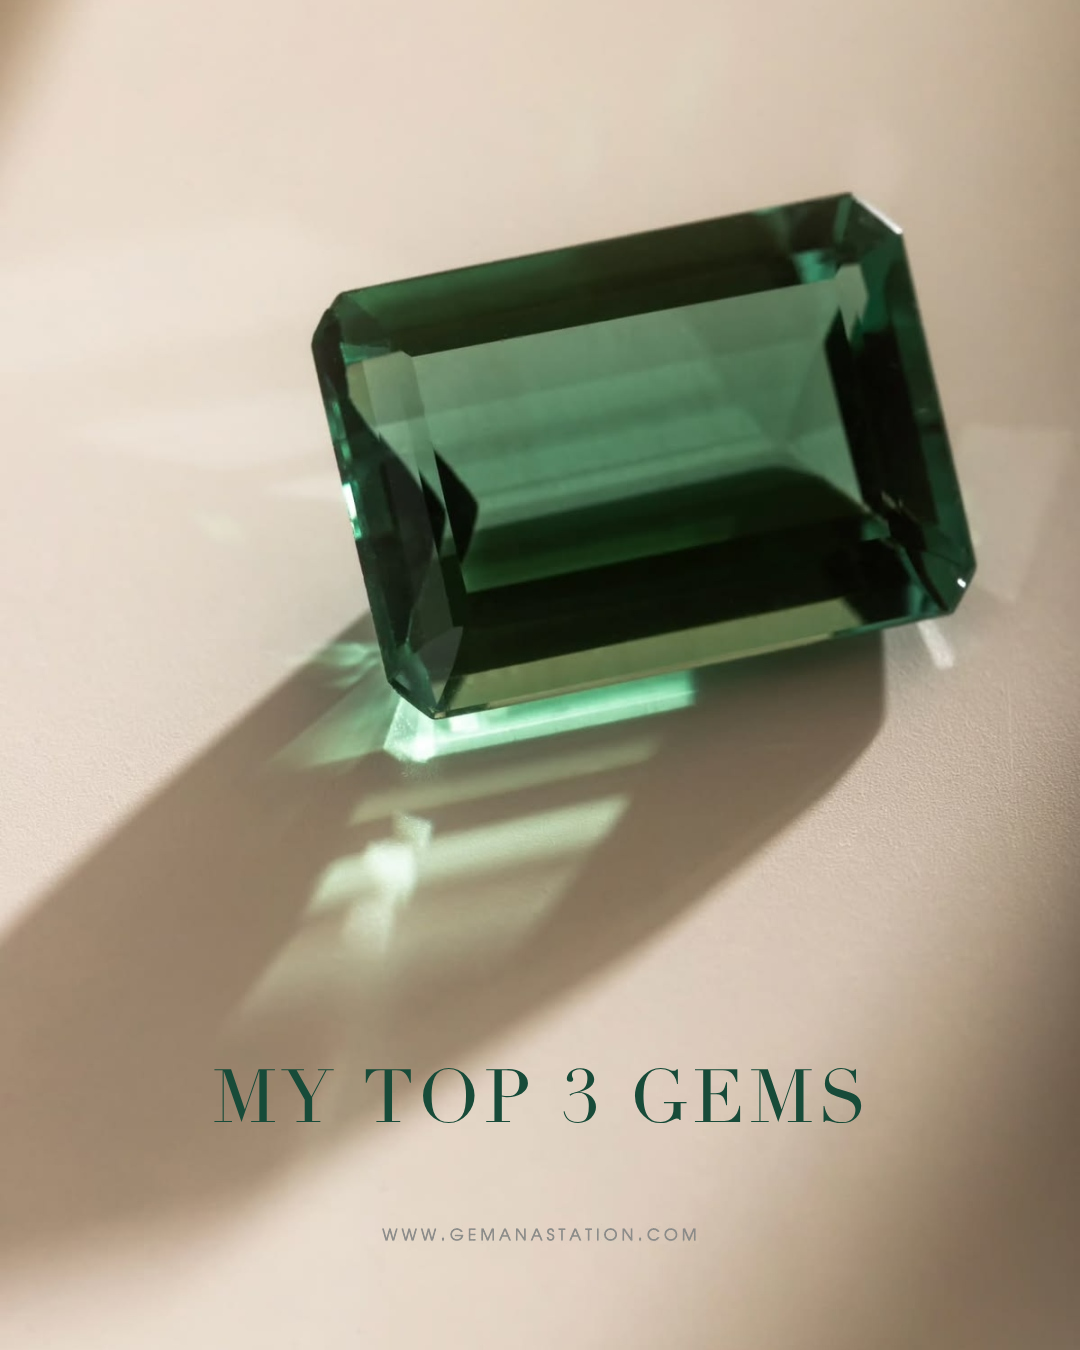
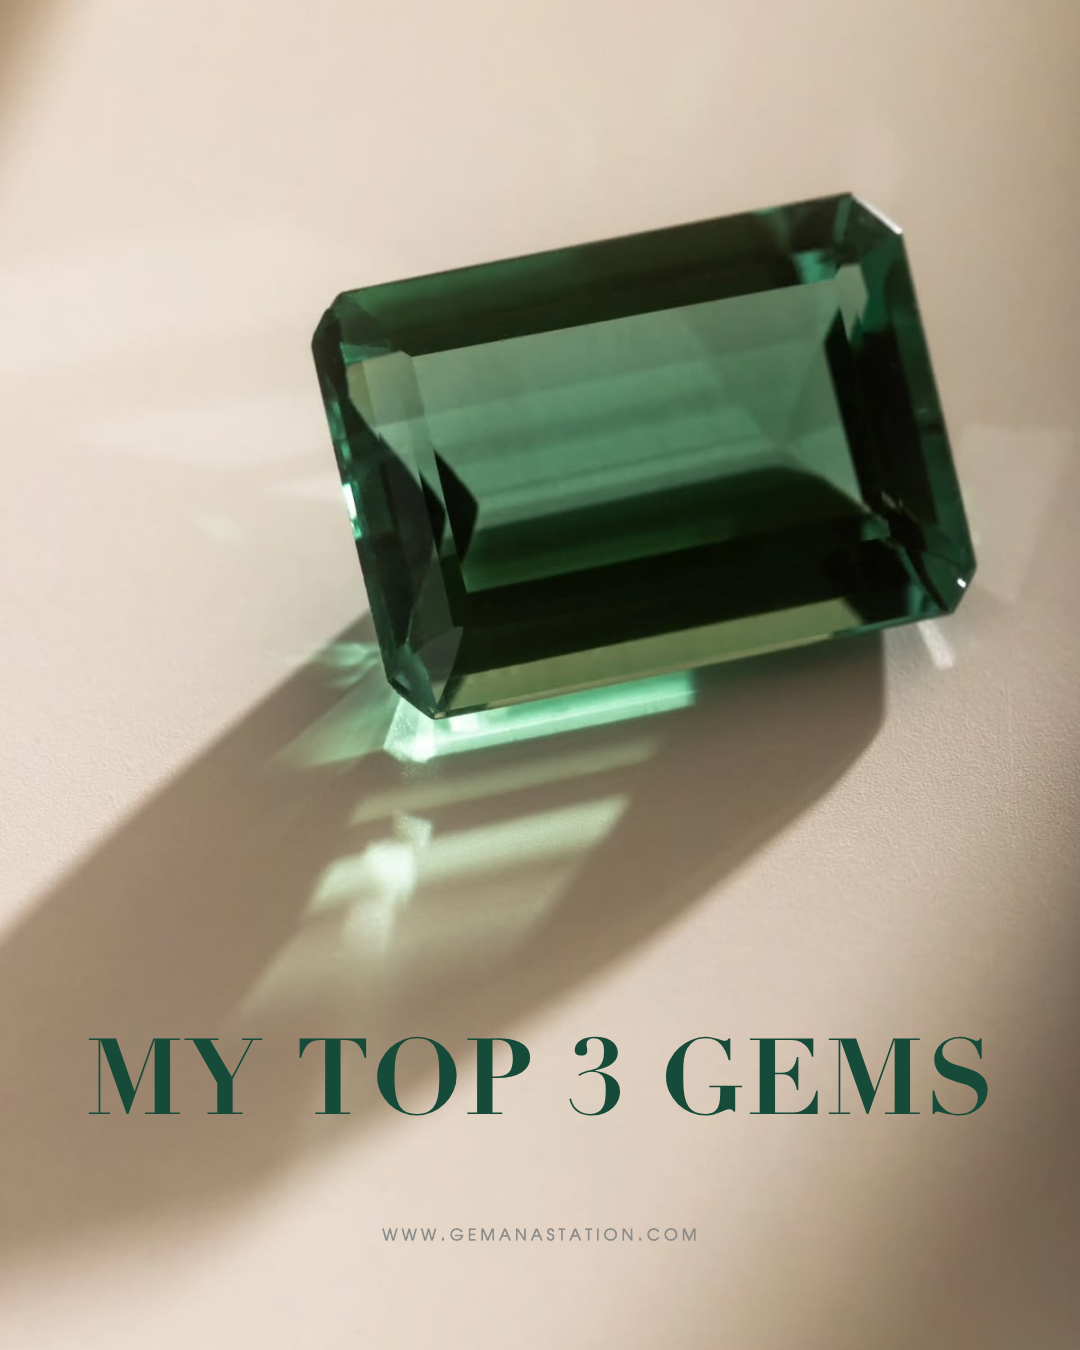
MY TOP 3 GEMS cover: title at the type-1 cover size (Didot Bold 106); rule in BRAND.md
Claude-Session: https://claude.ai/code/session_01DPJpbdE4xE8Jg3JGMEEyZy

Changed region(s): [[0.5194, 0.7467, 0.9167, 0.84], [0.0917, 0.7467, 0.4889, 0.84]]

diff --git a/gem-anastation-reels/founders_choice/cover.html b/gem-anastation-reels/founders_choice/cover.html
@@ -1,9 +1,9 @@
 <!doctype html><html><head><meta charset="utf-8"><style>
-  @font-face { font-family: "Didot"; src: url(../brand/fonts_licensed/Didot-Regular.ttf); }
+  @font-face { font-family: "Didot"; src: url(../brand/fonts_licensed/Didot-Bold.ttf); font-weight: 700; }
   body { margin: 0; }
   #page { position: relative; width: 1080px; height: 1350px; overflow: hidden; background: url(build/photo.jpg); }
-  .title { position: absolute; left: 0; width: 1080px; text-align: center; font-family: "Didot"; font-size: 74px;
-    line-height: 1; letter-spacing: .06em; text-indent: .06em; color: #174B39; white-space: nowrap; }
+  .title { position: absolute; left: 0; width: 1080px; text-align: center; font-family: "Didot"; font-size: 106px; font-weight: 700;
+    line-height: 1; letter-spacing: .025em; text-indent: .025em; color: #174B39; white-space: nowrap; }
 </style></head><body><section id="page">
   <div class="title" id="t">MY TOP 3 GEMS</div>
   <img src="build/url_cover.png" style="position:absolute; left:375px; top:1223px" width="351" height="23" alt="">

diff --git a/gem-anastation-reels/brand/BRAND.md b/gem-anastation-reels/brand/BRAND.md
@@ -93,3 +93,10 @@ The font files live in `brand/fonts_licensed/` locally and are git-ignored —
 they are licensed with the client's Mac and must not be published. To rebuild
 in a fresh session, extract them again from the client's `Didot.ttc`
 (`fontTools.ttLib.TTCollection`) into that folder.
+
+## Covers — type 1 title (rule)
+The main message on a type-1 cover (GEMS OF ASIA, MY TOP 3 GEMS …) is always
+the same size on every cover: Apple Didot Bold 106 px, tracking 0.025 em,
+centred, one line. Position follows the photo (top on a landscape, under the
+stone on a stone shot). If a title would not fit the width at that size,
+shorten the wording rather than shrink the type.
